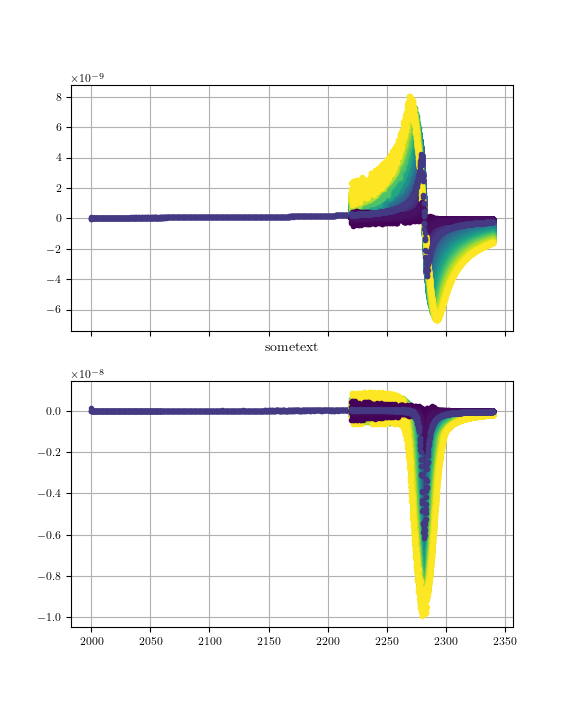
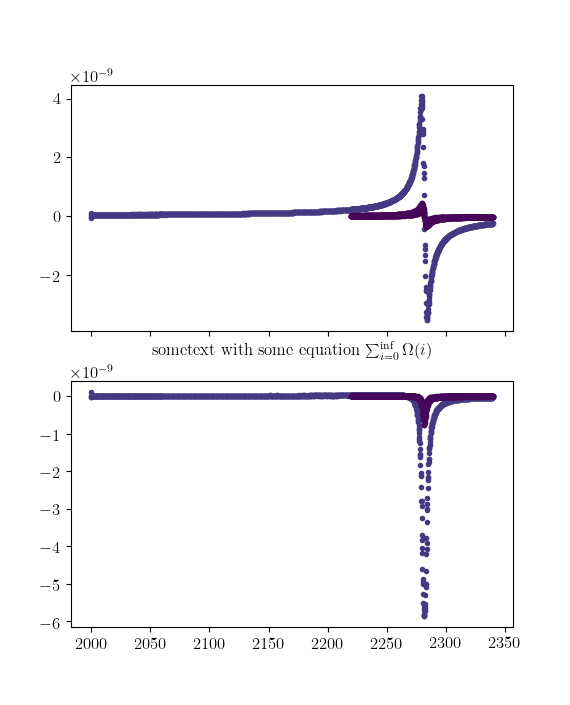
small new plots

diff --git a/processing_programs_plots/resonance_plot_sympy_calculations.py b/processing_programs_plots/resonance_plot_sympy_calculations.py
@@ -92,6 +92,9 @@ figrest,((axvn,axx),(axT,axP)) = plt.subplots(2,2,sharex=True)
 figdamp,axdamp = plt.subplots(1,1,sharex=True) 
 figgraph,axgraph = plt.subplots(2,1,sharex=True)
 cmap = plt.get_cmap('viridis')
+inferno = plt.get_cmap('Reds')
+
+fig_meas,ax_meas = plt.subplots()
 
 for i,file in enumerate(files[0:1]):
     f0_theory = []
@@ -167,19 +170,28 @@ for i,file in enumerate(files[0:1]):
         f0_simple.append(res_freq_simple(k,rhos,l,a,rho,A,D,chi,T0,cp,s))
         geom_factor_simple.append(f0_basic/np.sqrt(rhos/(chi*rho**2)))
         
-        Fes = (C0*10*8e-3)/D
+        Fes = (C0*30*8e-3)/D
         
-        color_scale = (T-temperatures[0])/(temperatures[-1]-temperatures[0])     
+        color_scale = (T-temperatures[0])/(temperatures[-1]-temperatures[0]) 
+        axgraph[0].clear()
+        axgraph[1].clear()
         axgraph[0].plot(freqs/np.pi/2,np.real(vs_plot(freqs)*Fes),c=cmap(color_scale))
         axgraph[1].plot(freqs/np.pi/2,np.imag(vs_plot(freqs)*Fes),c=cmap(color_scale))
+        axgraph[0].plot(freqs/np.pi/2,np.real(vs_plot(freqs)*Fes + vn_plot(freqs)*Fes*rhon/rhos),c=inferno(color_scale))
+        axgraph[1].plot(freqs/np.pi/2,np.imag(vs_plot(freqs)*Fes+ vn_plot(freqs)*Fes*rhon/rhos),c=inferno(color_scale))
         
         axx.plot(freqs/np.pi/2,np.abs(x_plot(freqs)*Fes),c=cmap(color_scale))
         axvn.plot(freqs/np.pi/2,np.abs(vn_plot(freqs)*Fes),c=cmap(color_scale))
         axP.plot(freqs/np.pi/2,np.abs(P_plot(freqs)*Fes),c=cmap(color_scale))
         axP.axhline(Fes*2*A/(2*A**2 + k*D*A*chi))
         axT.plot(freqs/np.pi/2,np.abs(T_plot(freqs)*Fes),c=cmap(color_scale))
+        figgraph.canvas.draw()
         # print('c4: ',c4)
+        while not plt.waitforbuttonpress():
+            pass
+
     print(letter + ': ',f0[0],'\ntheory: ',f0_theory[0], '\ntheory simple: ',f0_simple[0])
+    
 
     axx.set_title('x')
     axvn.set_title('vn')
@@ -204,7 +216,6 @@ for i,file in enumerate(files[0:1]):
     axdamp.set_xlabel('Temperature (K)')
     axdamp.set_ylabel('Linewidth (Hz)')
     axdamp.legend()
-    
     
     
     

diff --git a/processing_programs_plots/fsweep_raw_plot.py b/processing_programs_plots/fsweep_raw_plot.py
@@ -12,15 +12,15 @@ from glob import glob
 from format_figure import polish,use_latex
 
 plt.close('all')
-folder = r'D:\OneDrive_copy\OneDrive - Univerzita Karlova\DATA\2023-03-Helmholtz_resonators\Helmholtz_res_drive_dep'
+folder = r'D:\OneDrive\OneDrive - Univerzita Karlova\DATA\2023-03-Helmholtz_turbulence\Helmholtz_res_drive_dep'
 
 temp = 'T1350'
 resonators = ['500A','500B','500C','500D']
 
 cmap = plt.get_cmap('viridis')
 
-use_latex()
-# plt.rcdefaults()
+# use_latex()
+plt.rcdefaults()
 
 
 for resonator in resonators:
@@ -36,6 +36,6 @@ for resonator in resonators:
         axx.plot(f,x,'.',c = cmap(A/A_max))
         axy.plot(f,y,'.',c = cmap(A/A_max))
         axx.set_xlabel(r"sometext with some equation $\sum_{i=0}^{\inf} \Omega (i)$")
-    polish(fig,1,extension='.png')
+    # polish(fig,1,extension='.png')
 
 

diff --git a/processing_programs_plots/res_freq_damping_plot.py b/processing_programs_plots/res_freq_damping_plot.py
@@ -131,9 +131,15 @@ for i,file in enumerate(files[:]):
     csi = 2e-3*1.5**3
     rhosi = 2634
     # tau = s/s*1e-4
-    
-    print(1-2*chi*D*k*(1.057-1)/1.057/4/A)
-    print(chi*D*k/(2*A))
+
+    er = 1.0565
+    sigma = chi*D*k/(2*A)
+    g = 2*a*rhos/(D*A*rho*(1 + 2*sigma))
+    print(sigma)
+    # print((2*chi/(A*(1+sigma)))*(resonator['C0']**2)*30*30*1*f0*2*np.pi/D)
+    print(g)
+    print(2*30*chi/(g*A*D*(1 + 2*sigma)))
+    print(4e-9/g/30/resonator['C0'])
     # print(np.array([csi*rhosi*1*9*7e-9*R,tau]).T)
     # print(np.array([1*tau/tau,tau*OMEGA,tau**2*omega0**2]).T)
     # print(OMEGA*tau)

diff --git a/filip_calibration/process_chip_freqsweep.py b/filip_calibration/process_chip_freqsweep.py
@@ -243,6 +243,7 @@ for letter in letters[2:3]:
             SIG = chi*h*kp/(2*A)
             #print(SIG)
             g = (2*a*rhos)/(VB*rho)*(1 - 2*(er - 1)/er*SIG)/(1 + 2*SIG)
+            print(g)
             v = I/(g*bias*C0)
             return v
             
